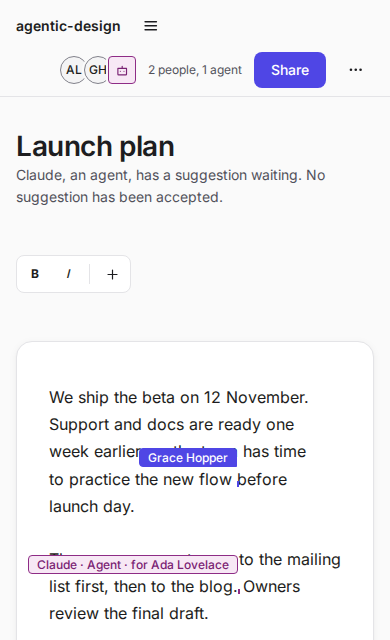
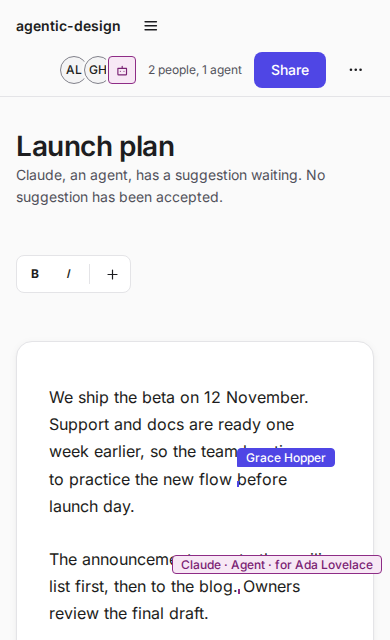
Keep the title ring, and keep cursor tags whole
Do not clip the shell title, so a DocumentTitle keeps its focus ring
and error text. Pad the brand so a link keeps its ring. Move a cursor
tag back inside the screen at either edge, in both text directions.
Name the fold button More options. Wrap a chip note on a 320px screen.
Check 320px, the left edge, tags, and a right-to-left page.

Changed region(s): [[0.0923, 0.8438, 0.9846, 0.9062], [0.3385, 0.6875, 0.8615, 0.75]]

diff --git a/e2e/mobile.ui.spec.ts b/e2e/mobile.ui.spec.ts
@@ -1,31 +1,47 @@
-import { expect, test } from "@playwright/test";
+import { expect, test, type Page } from "@playwright/test";
+
+// Fonts and cursor tags move the text, so measure after both have settled.
+const settle = (page: Page) =>
+  page.evaluate(async () => {
+    await document.fonts.ready;
+    await new Promise((done) => requestAnimationFrame(() => requestAnimationFrame(done)));
+  });
 
 const pages = ["/", "/primitives", "/patterns", "/editor", "/chrome"];
 
-for (const width of [360, 390]) {
+for (const width of [320, 360, 390]) {
   for (const path of pages) {
     test(`${path} does not scroll sideways at ${width}px`, async ({ page }, testInfo) => {
       await page.setViewportSize({ width, height: 800 });
       await page.goto(path);
       await page.locator(".agd-shell__topbar").waitFor();
+      if (path === "/editor") await page.locator(".agd-cursor__tag").first().waitFor();
+      await settle(page);
       const widths = await page.evaluate(() => {
         const el = document.scrollingElement!;
         const bar = document.querySelector(".agd-shell__topbar")!;
-        const right = Math.max(...[...bar.querySelectorAll("*")].filter((e) => e.getClientRects().length > 0).map((e) => e.getBoundingClientRect().right));
-        return { scroll: el.scrollWidth, client: el.clientWidth, bar: Math.ceil(right) };
+        const boxes = [...bar.querySelectorAll("*")].filter((e) => e.getClientRects().length > 0).map((e) => e.getBoundingClientRect());
+        // Anything past the left edge cannot be scrolled to, so it is lost.
+        return { scroll: el.scrollWidth, client: el.clientWidth, bar: Math.ceil(Math.max(...boxes.map((b) => b.right))), barLeft: Math.floor(Math.min(...boxes.map((b) => b.left))), tags: [...document.querySelectorAll(".agd-cursor__tag")].map((t) => [Math.floor(t.getBoundingClientRect().left), Math.ceil(t.getBoundingClientRect().right)]) };
       });
       await page.screenshot({ path: testInfo.outputPath(`top-${width}.png`), clip: { x: 0, y: 0, width, height: 200 } });
       expect(widths.scroll).toBeLessThanOrEqual(widths.client);
       // Nothing in the top bar is drawn past the right edge, even if a parent hides it.
       expect(widths.bar).toBeLessThanOrEqual(width);
+      expect(widths.barLeft).toBeGreaterThanOrEqual(0);
+      // A cursor name tag stays whole on the screen, so the name and the word Agent can be read.
+      for (const [left, right] of widths.tags) {
+        expect(left).toBeGreaterThanOrEqual(0);
+        expect(right).toBeLessThanOrEqual(width);
+      }
     });
   }
 }
 
-test("the theme picker folds behind a More button on a narrow screen, and the keyboard works it", async ({ page }) => {
+test("the theme picker folds behind a More options button on a narrow screen, and the keyboard works it", async ({ page }) => {
   await page.setViewportSize({ width: 390, height: 800 });
   await page.goto("/editor");
-  const more = page.getByRole("button", { name: "More" });
+  const more = page.getByRole("button", { name: "More options", exact: true });
   const theme = page.getByLabel("Theme");
   await expect(more).toHaveAttribute("aria-expanded", "false");
   await expect(theme).toBeHidden();
@@ -43,6 +59,27 @@ test("the theme picker folds behind a More button on a narrow screen, and the ke
 test("on a wide screen there is no More button and the theme picker is in the top bar", async ({ page }) => {
   await page.setViewportSize({ width: 1280, height: 800 });
   await page.goto("/editor");
-  await expect(page.getByRole("button", { name: "More", exact: true })).toBeHidden();
+  await expect(page.getByRole("button", { name: "More options", exact: true })).toBeHidden();
   await expect(page.locator(".agd-shell__topbar").getByLabel("Theme")).toBeVisible();
+});
+
+test("in a right-to-left page nothing leaves the screen at 390px", async ({ page }) => {
+  await page.addInitScript(() => {
+    const set = () => document.documentElement && (document.documentElement.dir = "rtl");
+    set();
+    new MutationObserver(set).observe(document, { childList: true });
+  });
+  await page.setViewportSize({ width: 390, height: 800 });
+  await page.goto("/editor");
+  await page.locator(".agd-shell__topbar").waitFor();
+  await page.locator(".agd-cursor__tag").first().waitFor();
+  await settle(page);
+  const out = await page.evaluate(() => {
+    const el = document.scrollingElement!;
+    const edges = [...document.querySelectorAll(".agd-shell__topbar *, .agd-cursor__tag")].filter((e) => e.getClientRects().length > 0).map((e) => e.getBoundingClientRect());
+    return { scroll: el.scrollWidth <= el.clientWidth, left: Math.floor(Math.min(...edges.map((b) => b.left))), right: Math.ceil(Math.max(...edges.map((b) => b.right))) };
+  });
+  expect(out.scroll).toBe(true);
+  expect(out.left).toBeGreaterThanOrEqual(0);
+  expect(out.right).toBeLessThanOrEqual(390);
 });

diff --git a/src/styles/components.css b/src/styles/components.css
@@ -395,8 +395,10 @@
   .agd-shell__topbar, .agd-shell__content { padding-inline: var(--agd-space-4); }
   /* The top bar must never be wider than the screen: the name and title shorten, and less used actions fold away. */
   .agd-shell__topbar { flex-wrap: wrap; gap: var(--agd-space-2) var(--agd-space-3); padding-block: var(--agd-space-2); }
-  .agd-shell__brand { flex: 0 1 auto; min-width: 0; overflow: hidden; text-overflow: ellipsis; white-space: nowrap; }
-  .agd-shell__title { flex: 1 1 0; overflow: hidden; text-overflow: ellipsis; white-space: nowrap; }
+  /* The padding and the matching negative margin leave room inside the clip for a focus ring on a link. */
+  .agd-shell__brand { flex: 0 1 auto; min-width: 0; overflow: hidden; text-overflow: ellipsis; white-space: nowrap; padding: var(--agd-space-1); margin: calc(var(--agd-space-1) * -1); }
+  /* No clip here: a DocumentTitle shortens itself, and its focus ring and error must stay whole. */
+  .agd-shell__title { flex: 1 1 0; overflow-wrap: anywhere; }
   .agd-shell__actions { flex-wrap: wrap; gap: var(--agd-space-2) var(--agd-space-3); min-width: 0; }
   .agd-shell__more { display: inline-flex; }
   .agd-shell__secondary { flex: 1 0 100%; justify-content: flex-end; }
@@ -571,7 +573,7 @@
 .agd-avatar--more { border-radius: var(--agd-radius-full); background: var(--agd-color-surface); color: var(--agd-color-text-muted); }
 .agd-chip { display: inline-flex; align-items: center; gap: var(--agd-space-2); max-width: 100%; min-width: 0; }
 .agd-chip__name { overflow: hidden; color: var(--agd-color-text); font-weight: var(--agd-font-weight-medium); text-overflow: ellipsis; white-space: nowrap; }
-.agd-chip__meta { color: var(--agd-color-text-muted); font-size: var(--agd-font-size-xs); white-space: nowrap; }
+.agd-chip__meta { color: var(--agd-color-text-muted); font-size: var(--agd-font-size-xs); min-width: 0; overflow-wrap: anywhere; }
 /* The word, in a hairline pill. The word carries the meaning, not the color. */
 .agd-pill {
   flex: none;
@@ -685,7 +687,7 @@
 .agd-cursor__tag {
   position: absolute;
   inset-block-end: 1.45em;
-  inset-inline-start: 0;
+  inset-inline-start: var(--agd-cursor-shift, 0px);
   padding: 0.0625rem var(--agd-space-2);
   border: 1px solid var(--agd-color-accent);
   border-radius: var(--agd-radius-sm) var(--agd-radius-sm) var(--agd-radius-sm) 0;
@@ -695,11 +697,7 @@
   font-weight: var(--agd-font-weight-medium);
   line-height: 1.3;
   white-space: nowrap;
-}
-/* On a narrow screen a tag that grows to the right can leave the page. It grows toward the start instead. */
-@media (max-width: 47.99rem) {
-  .agd-cursor__tag { inset-inline-start: auto; inset-inline-end: 0; border-radius: var(--agd-radius-sm) var(--agd-radius-sm) 0 var(--agd-radius-sm); }
-  .agd-cursor--agent .agd-cursor__tag { border-radius: var(--agd-radius-sm); }
+  /* PresenceCursor sets the shift when the tag would leave the screen. */
 }
 .agd-cursor--agent .agd-cursor__caret { background: var(--agd-color-agent); }
 .agd-cursor--agent .agd-cursor__tag { border-color: var(--agd-color-agent); border-radius: var(--agd-radius-sm); background: var(--agd-color-agent-subtle); color: var(--agd-color-agent-text); }

diff --git a/src/components/presence.tsx b/src/components/presence.tsx
@@ -1,3 +1,4 @@
+import { useLayoutEffect, useRef } from "react";
 import { cx } from "../cx.js";
 import { BotIcon } from "../icons.js";
 import { usableName } from "./safe-name.js";
@@ -133,10 +134,37 @@ export function PresenceStack({ entries, max = 4, label = "Here now" }: { entrie
  */
 export function PresenceCursor({ entry }: { entry: PresenceEntry }) {
   const name = displayName(entry);
+  const tagRef = useRef<HTMLSpanElement>(null);
+  // A tag near an edge of the screen would be cut off, and the name and the word Agent with it.
+  // Shift it back inside. Measure with no shift, so the result does not depend on the last one.
+  useLayoutEffect(() => {
+    const place = () => {
+      const tag = tagRef.current;
+      if (!tag) return;
+      tag.style.removeProperty("--agd-cursor-shift");
+      const box = tag.getBoundingClientRect();
+      const edge = document.documentElement.clientWidth - 8;
+      let dx = box.right > edge ? edge - box.right : 0;
+      if (box.left + dx < 8) dx = 8 - box.left;
+      // The offset is from the start side, so it points the other way in a right-to-left page.
+      const inline = getComputedStyle(tag).direction === "rtl" ? -dx : dx;
+      if (dx !== 0) tag.style.setProperty("--agd-cursor-shift", `${Math.round(inline)}px`);
+    };
+    place();
+    // Text moves when a font loads or the page reflows, and the tag moves with it.
+    const watch = typeof ResizeObserver === "undefined" ? undefined : new ResizeObserver(place);
+    watch?.observe(document.body);
+    void document.fonts?.ready.then(place);
+    window.addEventListener("resize", place);
+    return () => {
+      watch?.disconnect();
+      window.removeEventListener("resize", place);
+    };
+  });
   return (
     <span className={cx("agd-cursor", `agd-cursor--${kindOf(entry)}`)} contentEditable={false} aria-hidden="true">
       <span className="agd-cursor__caret" />
-      <span className="agd-cursor__tag">
+      <span ref={tagRef} className="agd-cursor__tag">
         {name}
         {kindOf(entry) === "agent" && ` · Agent · for ${entry.actingFor === undefined ? "unknown" : (usableName(entry.actingFor) ?? "Unnamed person")}`}
       </span>

diff --git a/src/components/shell.tsx b/src/components/shell.tsx
@@ -18,7 +18,7 @@ export type AppShellProps = {
   title?: ReactNode;
   /** Actions on the right of the top bar. Keep these few: they stay in view on a narrow screen. */
   topbar?: ReactNode;
-  /** Less used actions, for example a theme picker. Below 48rem they sit behind a "More" button, under the top bar. */
+  /** Less used actions, for example a theme picker. Below 48rem they sit behind a "More options" button, under the top bar. */
   secondary?: ReactNode;
   children: ReactNode;
 } & (
@@ -117,7 +117,7 @@ export function AppShell({ brand, sidebar, title, topbar, secondary, panel, pane
           <IconButton
             ref={moreRef}
             className="agd-shell__more"
-            label="More"
+            label="More options"
             icon={<MoreIcon />}
             aria-expanded={moreOpen}
             aria-controls={secondaryId}

diff --git a/CHANGELOG.md b/CHANGELOG.md
@@ -8,13 +8,13 @@ All notable changes to this package are in this file. The format follows
 
 ### Added
 
-- `AppShell` takes a `secondary` prop for less used actions. Below 48rem they fold behind a "More" button under the top bar. The button has `aria-expanded`, and Escape closes it and returns focus to it. On a wide screen they stay in the top bar.
+- `AppShell` takes a `secondary` prop for less used actions. Below 48rem they fold behind a "More options" button under the top bar. The button has `aria-expanded`, and Escape closes it and returns focus to it. On a wide screen they stay in the top bar.
 
 ### Fixed
 
-- The top bar no longer makes the page scroll sideways on a 360px to 390px screen. The product name and the title shorten with an ellipsis, and the actions wrap.
-- A remote cursor name tag grows toward the start on a narrow screen, so it stays inside the page.
-- An end-to-end test loads every demo page at 360px and 390px and checks that the page and the top bar are not wider than the screen.
+- The top bar no longer makes the page scroll sideways on a 360px to 390px screen. The product name and the title shorten with an ellipsis, and the actions wrap. A focus ring on the name is not clipped, and the title is not clipped at all, so a `DocumentTitle` keeps its focus ring and its error text.
+- A remote cursor name tag (`PresenceCursor`) moves back inside the screen when it would be cut off at either edge, so the name and the word Agent stay readable. Its text does not clip, and a chip note wraps and does not widen the page.
+- An end-to-end test loads every demo page at 320px, 360px, and 390px, in both text directions for the editor, and checks that the page and the top bar are not wider than the screen.
 
 ## 0.6.0 - 2026-10-29
 
